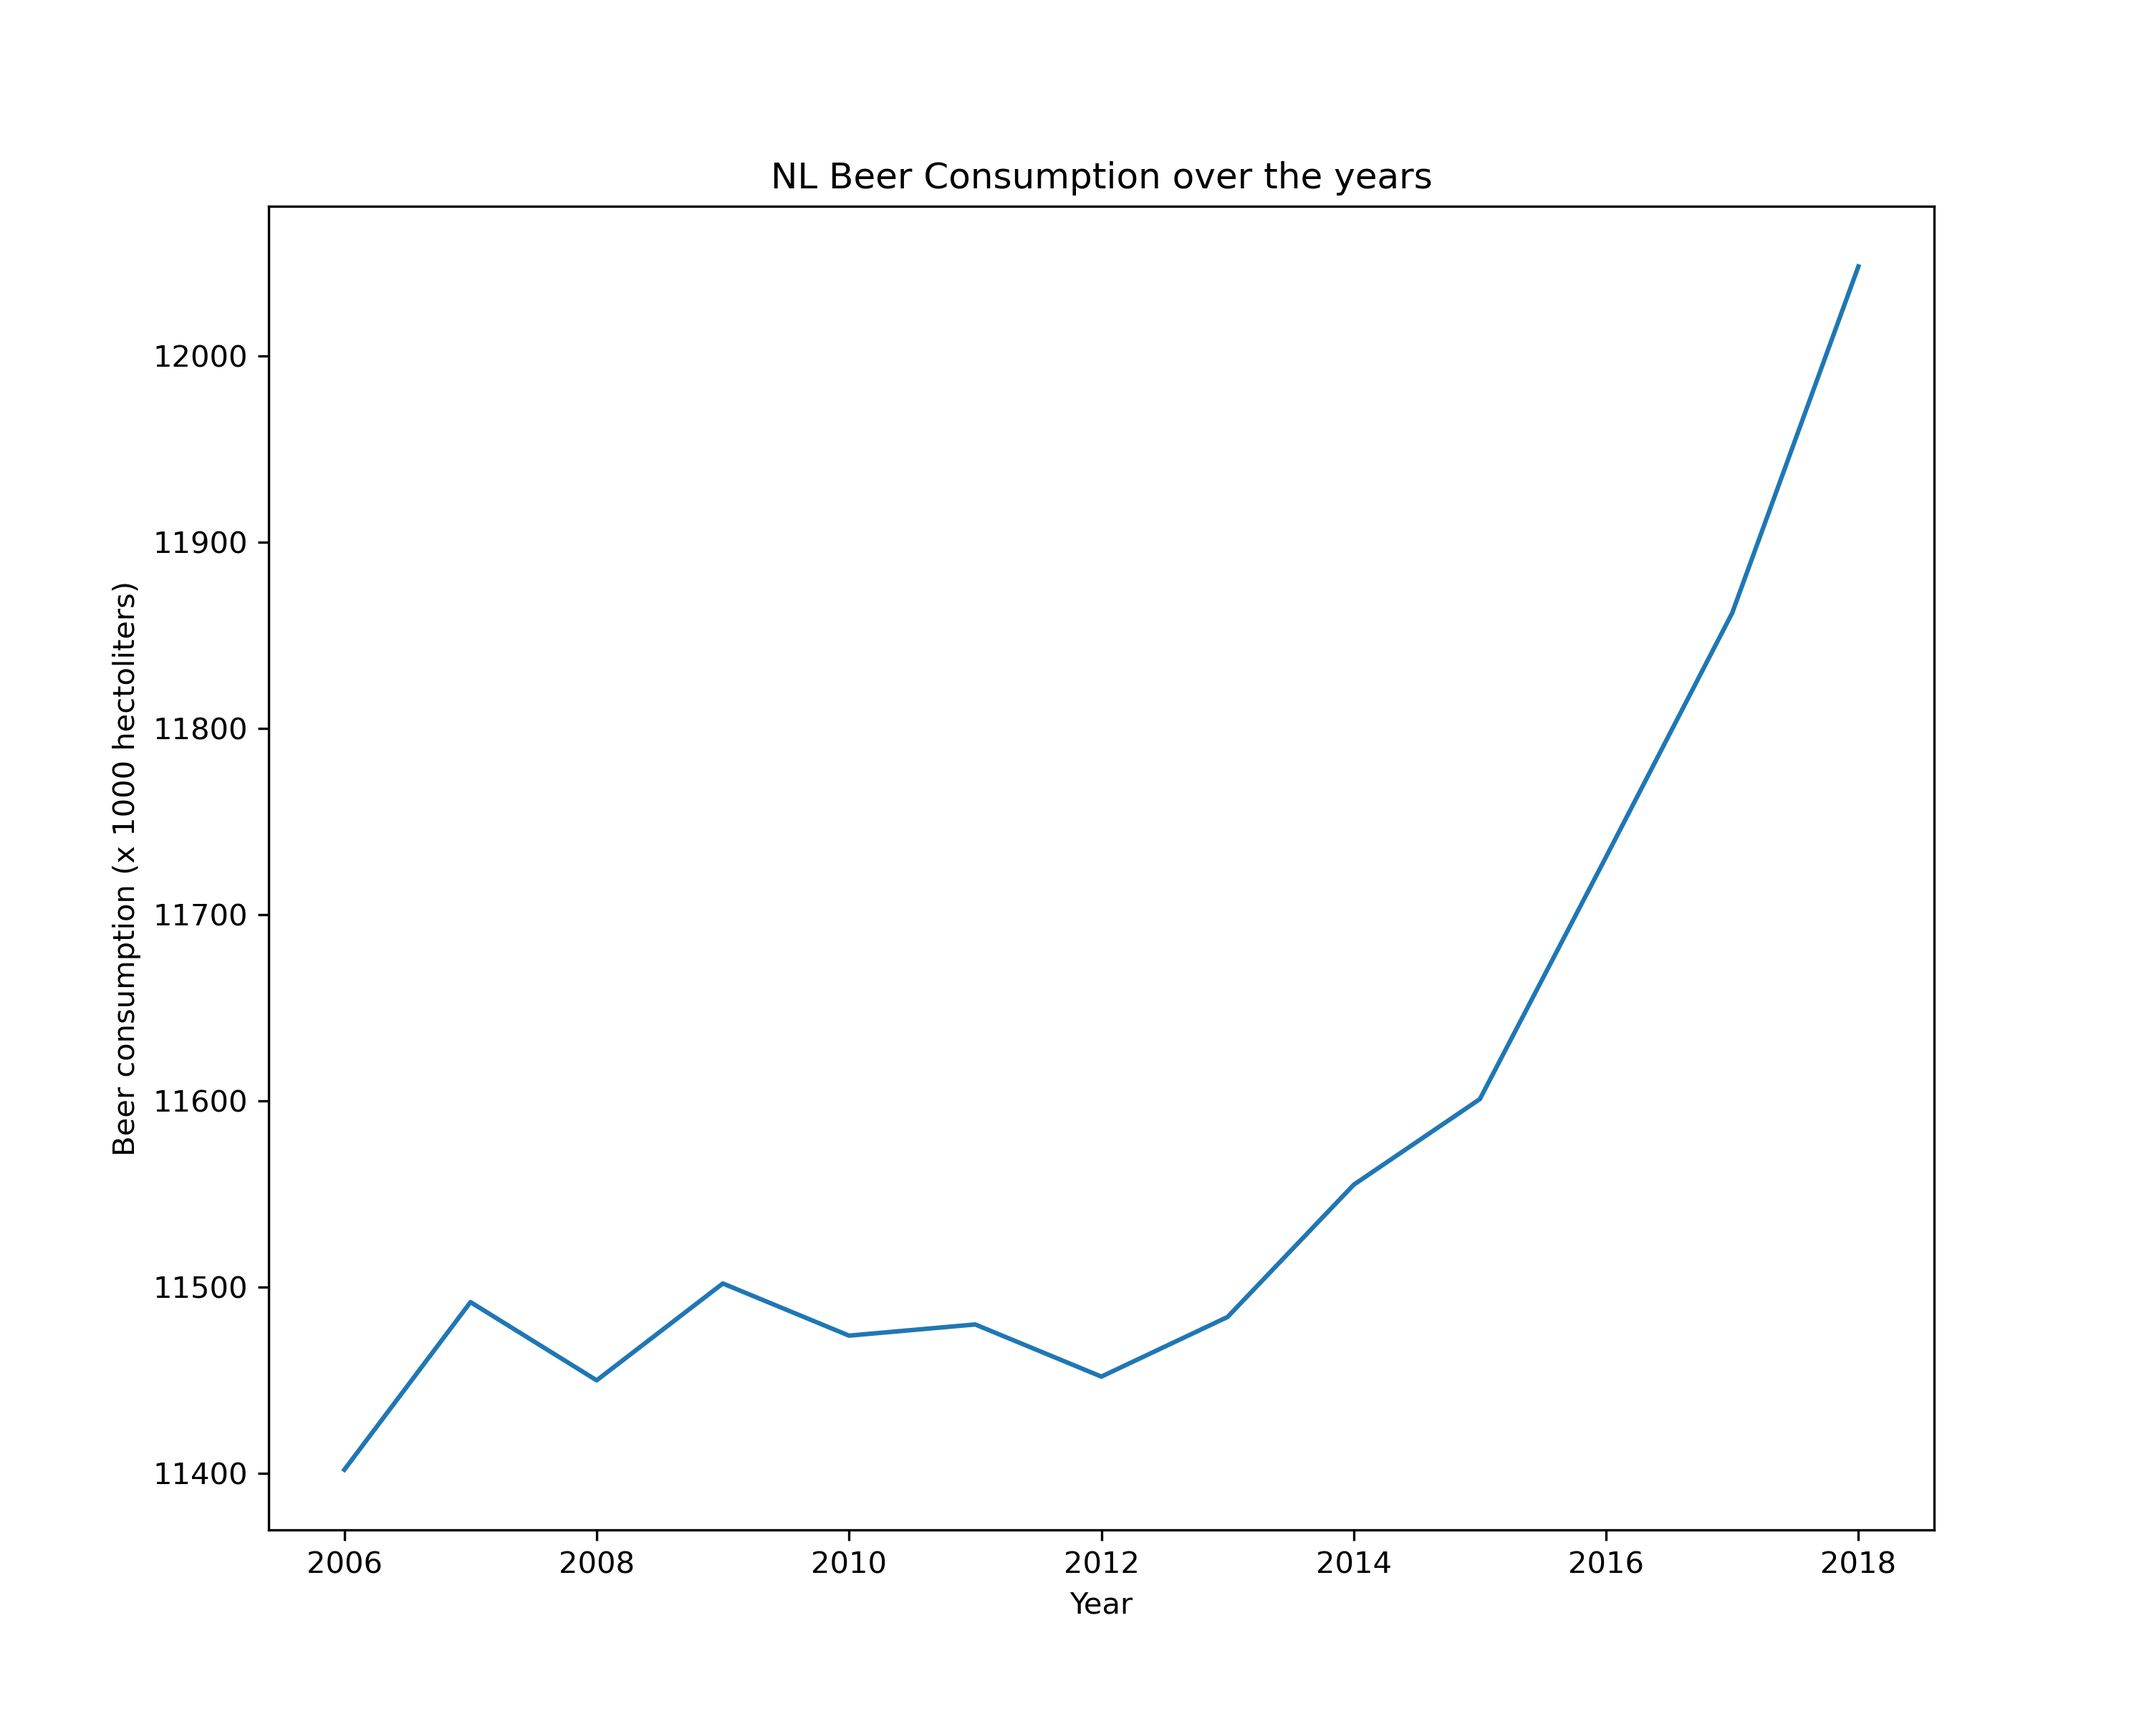
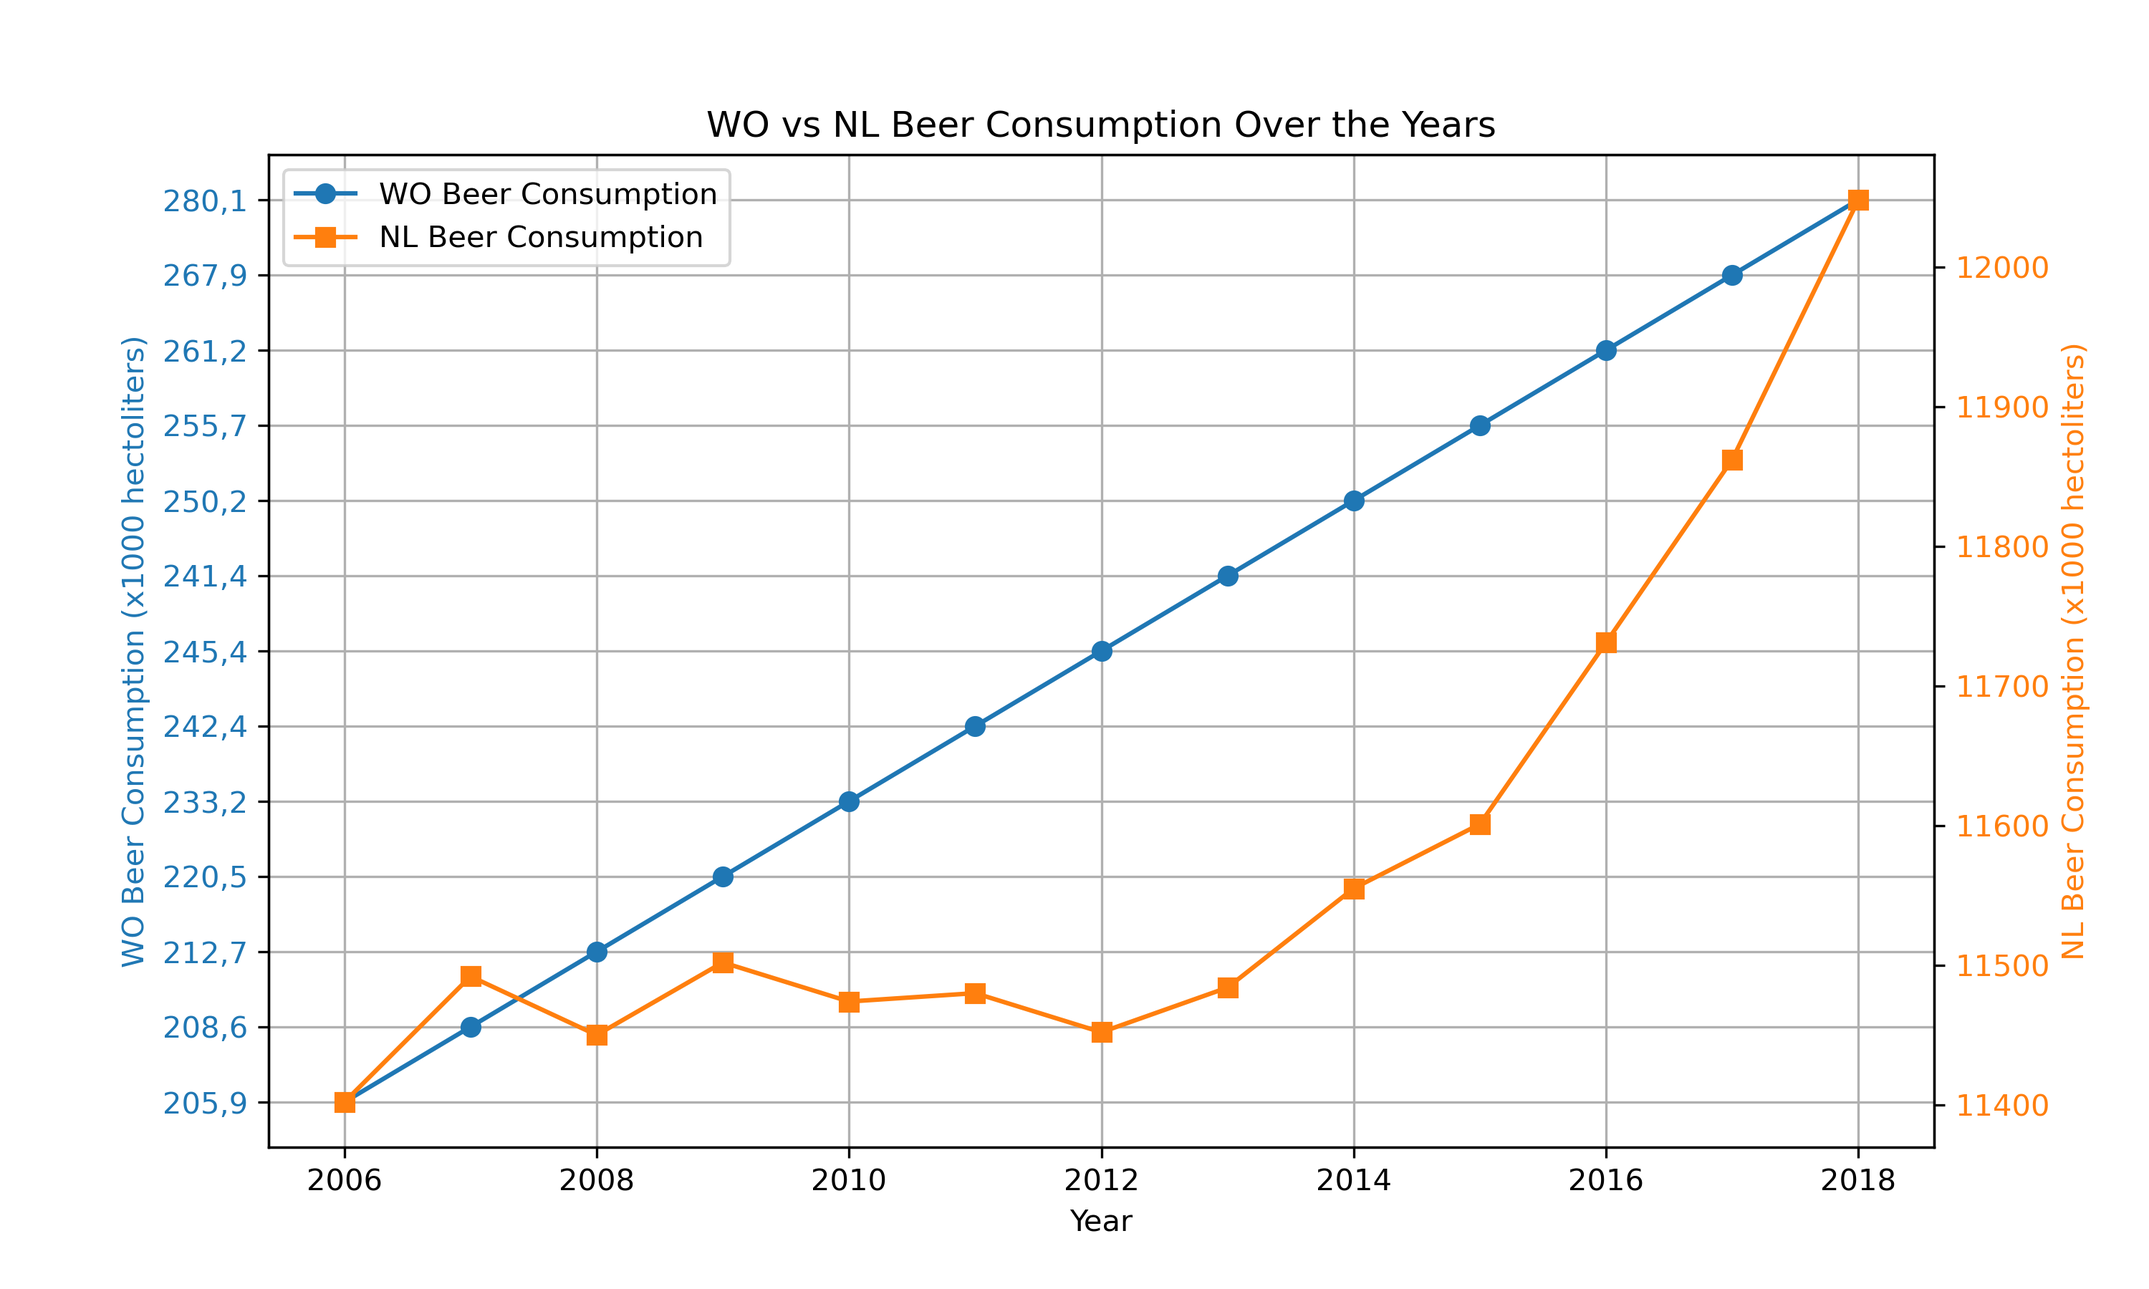
beer consumption plot and file

diff --git a/plot.py b/plot.py
@@ -1,13 +1,27 @@
-
 import pandas as pd
 import matplotlib.pyplot as plt
 
 dt = pd.read_csv('istherecorrelation.csv', delimiter=';')
+dt.columns = ["year", "wo_x1000", "nl_beerx1000"]
 
-plt.figure(figsize=(10,8))
-plt.plot(dt["Year"], dt["NL Beer consumption [x1000 hectoliter]"])
-plt.ylabel("Beer consumption (x 1000 hectoliters)")
-plt.xlabel("Year")
-plt.title("NL Beer Consumption over the years")
+fig, ax1 = plt.subplots(figsize=(10, 6))
+
+ax1.set_xlabel('Year')
+ax1.set_ylabel('WO Beer Consumption (x1000 hectoliters)', color='tab:blue')
+ax1.plot(dt['year'], dt['wo_x1000'], marker='o', color='tab:blue', label='WO Beer Consumption')
+ax1.tick_params(axis='y', labelcolor='tab:blue')
+
+ax2 = ax1.twinx()
+ax2.set_ylabel('NL Beer Consumption (x1000 hectoliters)', color='tab:orange')
+ax2.plot(dt['year'], dt['nl_beerx1000'], marker='s', color='tab:orange', label='NL Beer Consumption')
+ax2.tick_params(axis='y', labelcolor='tab:orange')
+
+plt.title('WO vs NL Beer Consumption Over the Years')
+
+ax1.grid(True)
+
+lines_1, labels_1 = ax1.get_legend_handles_labels()
+lines_2, labels_2 = ax2.get_legend_handles_labels()
+ax1.legend(lines_1 + lines_2, labels_1 + labels_2, loc='upper left')
 
 plt.savefig('beerconsumption_plot.png', dpi=300)

diff --git a/solution_.md b/solution_.md
@@ -5,4 +5,5 @@ Papers titles:
 - Correlation of continuous cardiac output measured by a pulmonary artery catheter versus impedance cardiography in ventilated patients
 
 Plot description:
-The plot shows that beer consumption in NL has been continuously increasing from 2006. However, while the increase from 2006 to 2012 was slight, from 2012 to 2018 beer consumption has seen a steep rise.
+The plot shows the amount of beer consumption from 2006 to 2018 both for WO (university students in The Netherlands) as well as total NL consumption.
+It can bee seen that the consumption for university students had a constant increase over the years, while the total NL consumption had a slight decrease between 2009 and 2012, and then started increasing.
